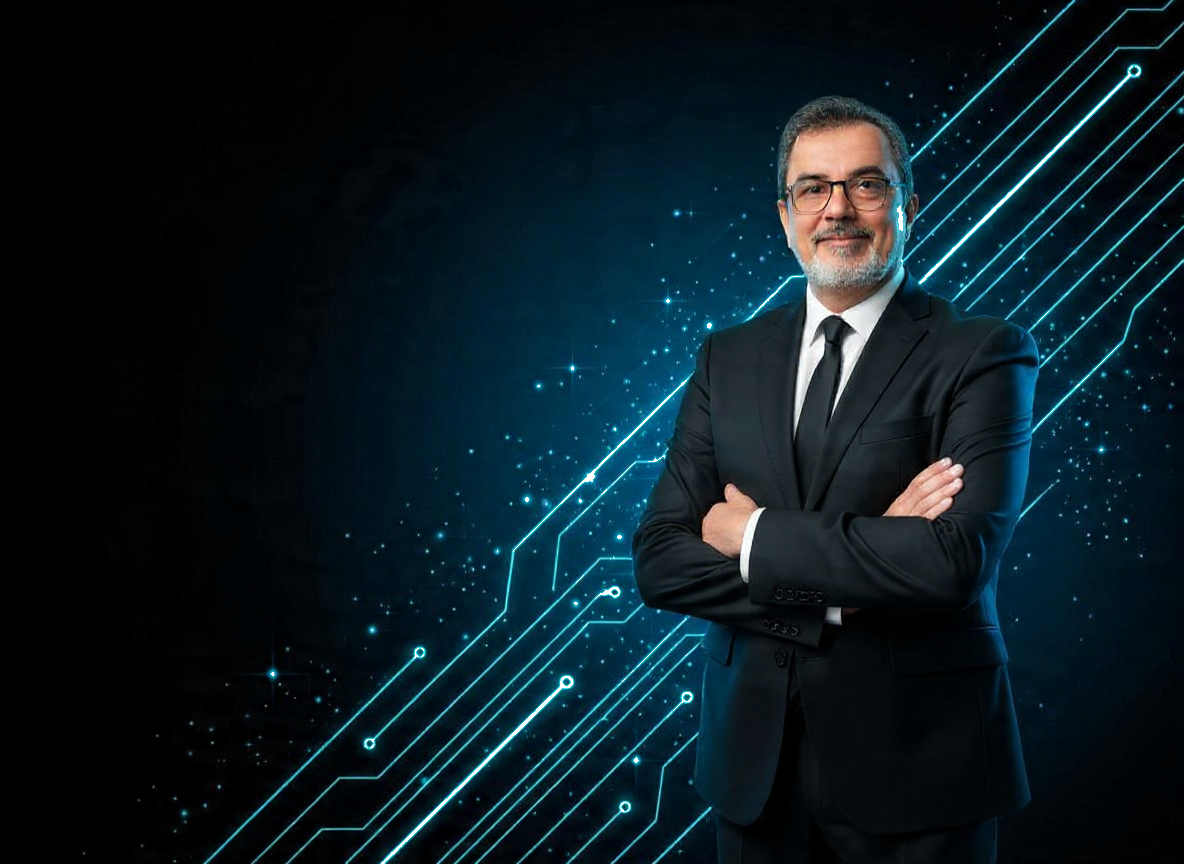
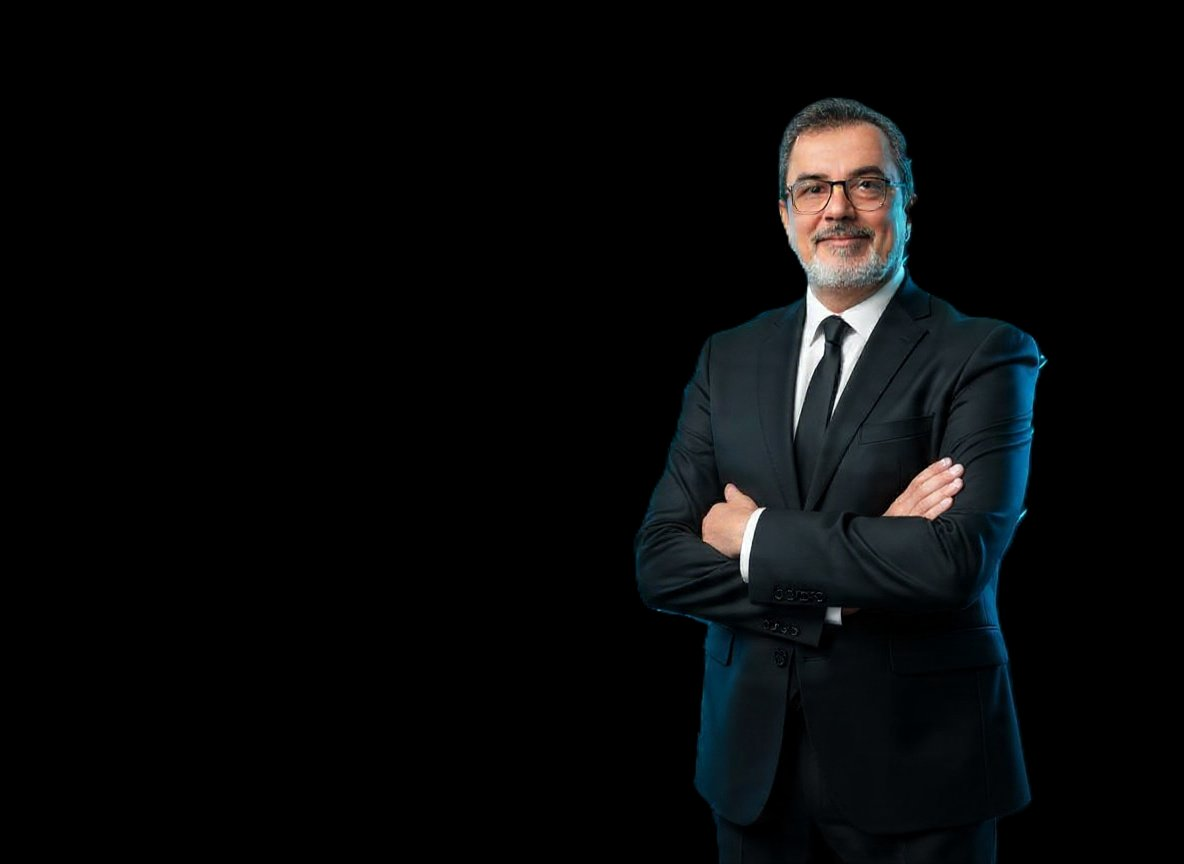
Add files via upload

diff --git a/TEST_LOCALE.md b/TEST_LOCALE.md
@@ -1,0 +1,57 @@
+# Test Locale del Sito
+
+## Come testare il sito localmente prima di caricarlo su GitHub
+
+### Metodo 1: Python HTTP Server (Raccomandato)
+
+1. Apri il terminale nella cartella dove hai scaricato i file
+2. Esegui:
+   ```bash
+   python3 -m http.server 8000
+   ```
+   o per Python 2:
+   ```bash
+   python -m SimpleHTTPServer 8000
+   ```
+3. Apri il browser e vai su: http://localhost:8000
+
+### Metodo 2: Node.js HTTP Server
+
+1. Installa http-server globalmente:
+   ```bash
+   npm install -g http-server
+   ```
+2. Nella cartella dei file, esegui:
+   ```bash
+   http-server
+   ```
+3. Apri il browser all'indirizzo indicato (di solito http://localhost:8080)
+
+### Metodo 3: Live Server (VS Code)
+
+1. Installa l'estensione "Live Server" in VS Code
+2. Fai click destro su index.html
+3. Seleziona "Open with Live Server"
+
+## Cosa verificare
+
+✅ Lo sfondo animato con circuiti e particelle si muove
+✅ La tua foto appare sulla destra
+✅ Il testo è leggibile sulla sinistra
+✅ I bottoni "Scopri di più" e "Contattami" funzionano
+✅ La navigazione è fluida
+✅ Il sito è responsive (prova a ridimensionare la finestra)
+✅ La favicon appare nella tab del browser
+
+## Problemi comuni
+
+**Lo sfondo non si anima:**
+- Controlla la console del browser (F12) per errori JavaScript
+- Verifica che script.js sia caricato correttamente
+
+**L'immagine non appare:**
+- Verifica che profile_transparent.png sia nella stessa cartella di index.html
+- Controlla il nome del file (è case-sensitive)
+
+**Errori CORS:**
+- Usa uno dei server HTTP sopra invece di aprire direttamente index.html nel browser

diff --git a/README.md b/README.md
@@ -91,8 +91,8 @@ Sito web personale di Gianluca Demontis - Tech Coach, innovatore in automazione 
 .
 ├── index.html                      # Pagina principale
 ├── styles.css                      # Stili CSS
-├── script.js                       # JavaScript per animazioni
-├── Sfondo_sito_web.png            # Immagine profilo
+├── script.js                       # JavaScript per animazioni sfondo
+├── profile_transparent.png         # Tua foto scontornata
 ├── favicon.ico                     # Favicon (formato ICO)
 ├── favicon.png                     # Favicon (formato PNG)
 ├── favicon.svg                     # Favicon (formato SVG)
@@ -103,6 +103,14 @@ Sito web personale di Gianluca Demontis - Tech Coach, innovatore in automazione 
 ├── .gitignore                      # File da ignorare in Git
 └── README.md                       # Questo file
 ```
+
+## 🎨 Caratteristiche del Sito
+
+- **Sfondo animato**: Canvas con linee circuitali, nodi pulsanti e particelle fluttuanti
+- **Layout responsive**: Si adatta perfettamente a desktop, tablet e mobile
+- **Immagine professionale**: Foto scontornata con effetti drop-shadow luminosi
+- **Navigazione smooth**: Scroll fluido tra le sezioni
+- **Performance ottimizzate**: Animazioni hardware-accelerated
 
 ## 🔄 Aggiornamenti Futuri
 
